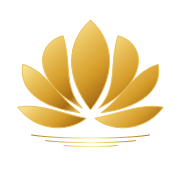
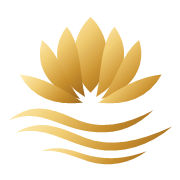
Redesign golden lotus with flowing water and refresh tour highlights

Changed region(s): [[0.0556, 0.1389, 0.9444, 0.9167], [0.4722, 0.0833, 0.5556, 0.1667]]

diff --git a/src/components/CityTourPage.tsx b/src/components/CityTourPage.tsx
@@ -48,10 +48,13 @@ export function CityTourPage(){
   <div className="tour-gallery">{photos.map((src,i)=><div key={src}><img src={src} alt={['Labuan Bajo harbour at sunset','Bukit Cinta rolling hills','Golo Mori coastline','Gua Rangko cave pool'][i]} loading={i===0?'eager':'lazy'}/>{i===0&&<span>See Bajo, your way ↗</span>}</div>)}</div>
   <div className="tour-layout"><div className="tour-content"><section className="tour-overview"><div><h2>One car. A whole day of possibilities.</h2><p>Explore Labuan Bajo on a city tour with a local driver/guide, an air-conditioned Toyota Rush, and room to make the day your own.</p></div><div className="tour-value"><Car size={22}/><div><strong>Toyota Rush</strong><span>Private vehicle · air conditioning · local driver/guide</span></div></div><div className="tour-includes"><div><h3>Included in your day</h3>{['Private Toyota Rush & local driver/guide','Fuel for the agreed local route','Hotel / Komodo Airport pickup & return','Bottled mineral water'].map(x=><p key={x}><Check size={16}/>{x}</p>)}</div><div><h3>Paid separately</h3>{['Attraction tickets & boat transfers','Lunch, dinner & personal purchases','Optional activities & voluntary tips','Personal travel insurance'].map(x=><p key={x}><span className="tour-dot">—</span>{x}</p>)}</div></div></section>
   <section className="tour-itinerary" id="tour-itinerary"><span className="tour-kicker">A LITTLE STRUCTURE. PLENTY OF FREEDOM.</span><h2>Your day could look like this.</h2><p className="tour-muted">A suggested route. We’ll agree the final stops and timing with you.</p><div className="tour-timeline">{stops.map(([at,title],i)=><button type="button" className="tour-stop-trigger" key={title} aria-haspopup="dialog" onClick={()=>setActiveStop(i)}><span className="tour-step">{String(i+1).padStart(2,'0')}</span><span><small>{at} WITA</small><strong>{title}</strong></span><ArrowUpRight size={18}/></button>)}</div></section>
-  <section id="tour-instagram" className="tour-instagram" aria-labelledby="tour-instagram-title"><div className="tour-instagram-heading"><Instagram size={19}/><h2 id="tour-instagram-title">City tour on Instagram</h2></div><p>Explore our city tour highlights on Instagram.</p><div className="tour-instagram-cards">{[
-    ['17985720191889255',photos[0],'City tour highlight 01'],
-    ['18126423679657807',photos[1],'City tour highlight 02'],
-  ].map(([id,cover,label])=><a key={id} href={`https://www.instagram.com/stories/highlights/${id}/`} target="_blank" rel="noopener noreferrer"><img src={cover} alt="" loading="lazy" width="96" height="96"/><span><strong>{label}</strong><small>View on Instagram</small></span><ArrowUpRight size={18}/></a>)}</div></section>
+  <section id="tour-instagram" className="tour-instagram" aria-labelledby="tour-instagram-title"><div className="tour-instagram-heading"><h2 id="tour-instagram-title">Explore our city tour</h2><Instagram size={20} aria-hidden="true"/></div><p>A little inspiration for your day in Bajo. See the highlights on Instagram.</p><div className="tour-instagram-cards">{[
+    ['17985720191889255',photos[0],'City tour highlight 01','01'],
+    ['18126423679657807',photos[1],'City tour highlight 02','02'],
+  ].map(([id,cover,label,number])=><a key={id} href={`https://www.instagram.com/stories/highlights/${id}/`} target="_blank" rel="noopener noreferrer" aria-label={label}>
+    <div className="tour-highlight-cover"><img src={cover} alt="" loading="lazy" width="480" height="270"/><span className="tour-highlight-badge"><Instagram size={18}/><span>Instagram highlights</span></span><span className="tour-highlight-number">{number}</span></div>
+    <div className="tour-highlight-action"><span>View highlight</span><span className="tour-highlight-arrow"><ArrowUpRight size={19}/></span></div>
+  </a>)}</div></section>
   <section className="tour-alternatives"><h2>Take a different turn.</h2><p className="tour-muted">Swap a stop for a coastal drive or a cave swim. Extra tickets and transfers are separate; routes depend on timing and access.</p><div>{[['Golo Mori','Coastal roads & open bays',photos[2]],['Gua Rangko','A boat ride to a blue cave pool',photos[3]]].map(([title,text,src])=><article key={title}><img src={src} alt={title} loading="lazy"/><h3>{title}</h3><p>{text}</p><a href="#tour-booking" onClick={()=>setNotes('Interested in '+title)}>Ask about this route ↗</a></article>)}</div></section>
   <section className="tour-car"><div><span className="tour-kicker">YOUR RIDE FOR THE DAY</span><h2>A little comfort goes a long way.</h2><p>Air conditioning, your own driver/guide, and no need to navigate. Let us know your group size and luggage so we can confirm the fit.</p><strong>Toyota Rush · up to 6 guests</strong></div><figure className="tour-interior"><img src="/assets/tours/toyota-rush-interior-enhanced.webp" alt="Toyota Rush three-row interior layout" loading="lazy"/><figcaption>Interior layout reference · actual trim may vary.</figcaption></figure></section>
   <section className="tour-faq"><h2>A few good questions.</h2>{faqs.map(([q,a])=><details key={q}><summary>{q}<ChevronDown size={16}/></summary><p>{a}</p></details>)}</section></div>

diff --git a/src/components/cityTour.css b/src/components/cityTour.css
@@ -71,4 +71,4 @@
 .tour-mobile-book {background:#fff;backdrop-filter:none;transform:translateZ(0);}
 .tour-intro h1 {white-space:normal;overflow-wrap:break-word;}
 
-.tour-instagram-heading{display:flex;align-items:center;gap:9px;color:#174c43}.tour-content .tour-instagram h2{font-size:21px;margin:0;letter-spacing:-.5px}.tour-instagram-cards{display:grid;grid-template-columns:1fr 1fr;gap:12px;margin-top:16px}.tour-instagram-cards>a{display:flex;align-items:center;gap:12px;padding:10px;border:1px solid #e0e6dc;border-radius:12px;min-width:0;background:#fff}.tour-instagram-cards img{width:64px;height:72px;object-fit:cover;border-radius:7px;flex-shrink:0}.tour-instagram-cards span{min-width:0;flex:1}.tour-instagram-cards strong{font-size:13px;line-height:1.5;display:block}.tour-instagram-cards small{display:block;font-size:11px;color:#607468;margin-top:5px}.tour-instagram-cards svg{flex-shrink:0}.tour-instagram-cards>a:hover{background:#f4f6ef}@media(max-width:650px){.tour-instagram-cards{grid-template-columns:1fr}.tour-instagram-cards img{width:58px;height:62px}.tour-content .tour-instagram h2{font-size:20px}}
+.tour-instagram-heading{display:flex;align-items:center;justify-content:space-between;gap:12px;color:#174c43}.tour-content .tour-instagram h2{font-size:25px;margin:0;letter-spacing:-.7px}.tour-instagram>p{margin-top:10px;max-width:500px}.tour-instagram-cards{display:grid;grid-template-columns:repeat(2,minmax(0,1fr));gap:14px;margin-top:20px}.tour-instagram-cards>a{display:block;min-width:0;overflow:hidden;border:1px solid #dfe5db;border-radius:14px;background:#fff;transition:border-color .2s,box-shadow .2s}.tour-highlight-cover{position:relative;overflow:hidden;aspect-ratio:16/9;background:#e9eee4}.tour-highlight-cover>img{display:block;width:100%;height:100%;object-fit:cover;transition:transform .5s ease}.tour-highlight-cover::after{content:'';position:absolute;inset:0;background:linear-gradient(transparent 40%,#102e294d);pointer-events:none}.tour-highlight-badge{position:absolute;z-index:1;top:12px;left:12px;display:flex;align-items:center;gap:6px;padding:6px 9px;background:#fffef5f2;color:#174c43;border-radius:20px;font-size:10px;font-weight:700}.tour-highlight-badge::before{content:'';position:absolute;inset:-4px;border:1px solid #f1cd82;border-radius:24px;animation:tour-highlight-invite 4s ease-out infinite;pointer-events:none}.tour-instagram-cards>a:nth-child(2) .tour-highlight-badge::before{animation-delay:2s}.tour-highlight-number{position:absolute;z-index:1;bottom:10px;right:12px;color:#fff;font-size:12px;font-weight:600;letter-spacing:1px}.tour-highlight-action{display:flex;align-items:center;justify-content:space-between;gap:8px;padding:12px 14px;color:#174c43;font-size:14px;font-weight:700}.tour-highlight-arrow{display:grid;place-items:center;width:32px;height:32px;border-radius:50%;background:#174c43;color:#fff;flex-shrink:0;transition:background .2s}.tour-highlight-arrow svg{transition:transform .2s}@keyframes tour-highlight-invite{0%,60%,100%{transform:scale(1);opacity:0}12%{opacity:.8}40%{transform:scale(1.12);opacity:0}}@media(hover:hover){.tour-instagram-cards>a:hover{border-color:#acbd9e;box-shadow:0 6px 20px #183c3510}.tour-instagram-cards>a:hover img{transform:scale(1.045)}.tour-instagram-cards>a:hover .tour-highlight-arrow svg{transform:translate(2px,-2px)}}@media(max-width:650px){.tour-content .tour-instagram h2{font-size:24px}.tour-instagram-cards{gap:10px;margin-top:16px}.tour-highlight-badge{left:8px;top:8px;padding:6px;}.tour-highlight-badge>span{display:none}.tour-highlight-action{padding:10px;font-size:12px;gap:5px;line-height:1.5}.tour-highlight-arrow{width:28px;height:28px}.tour-highlight-number{bottom:7px;right:9px;font-size:11px}}@media(prefers-reduced-motion:reduce){.tour-highlight-badge::before{animation:none}.tour-instagram-cards>a,.tour-highlight-cover>img,.tour-highlight-arrow,.tour-highlight-arrow svg{transition:none}}

diff --git a/index.html b/index.html
@@ -3,12 +3,12 @@
   <head>
     <meta charset="UTF-8" />
     <meta name="viewport" content="width=device-width, initial-scale=1.0" />
-    <link rel="icon" type="image/svg+xml" href="/assets/brand/lotus-flower.svg?v=lotus-ripples6" />
-    <link rel="icon" href="/favicon.ico?v=lotus-ripples6" sizes="any" />
-    <link rel="icon" type="image/png" sizes="32x32" href="/favicon-32x32.png?v=lotus-ripples6" />
-    <link rel="icon" type="image/png" sizes="16x16" href="/favicon-16x16.png?v=lotus-ripples6" />
-    <link rel="apple-touch-icon" sizes="180x180" href="/apple-touch-icon.png?v=lotus-ripples6" />
-    <link rel="manifest" href="/site.webmanifest?v=lotus-ripples6" />
+    <link rel="icon" type="image/svg+xml" href="/assets/brand/lotus-flower.svg?v=lotus-flow7" />
+    <link rel="icon" href="/favicon.ico?v=lotus-flow7" sizes="any" />
+    <link rel="icon" type="image/png" sizes="32x32" href="/favicon-32x32.png?v=lotus-flow7" />
+    <link rel="icon" type="image/png" sizes="16x16" href="/favicon-16x16.png?v=lotus-flow7" />
+    <link rel="apple-touch-icon" sizes="180x180" href="/apple-touch-icon.png?v=lotus-flow7" />
+    <link rel="manifest" href="/site.webmanifest?v=lotus-flow7" />
     <meta name="theme-color" content="#174c43" />
     <title>Lotus Rental 22 — Premium Scooter Rental Labuan Bajo</title>
     <meta name="description" content="Explore Labuan Bajo with premium scooter rentals from Lotus Rental 22. Airport & hotel delivery from Rp 20.000 per scooter, zero security deposit, well-maintained bikes, 2 helmets & phone holder included." />

diff --git a/src/i18n/tourTranslations.ts b/src/i18n/tourTranslations.ts
@@ -179,3 +179,7 @@ tourTranslations["Explore our city tour highlights on Instagram."]=["Lihat highl
 tourTranslations["City tour highlight 01"]=["Highlight city tour 01", "城市游精选01", "Destacado city tour 01", "Highlight city tour 01"];
 tourTranslations["City tour highlight 02"]=["Highlight city tour 02", "城市游精选02", "Destacado city tour 02", "Highlight city tour 02"];
 tourTranslations["View on Instagram"]=["Lihat di Instagram", "在Instagram查看", "Ver en Instagram", "Vedi su Instagram"];
+tourTranslations["Explore our city tour"]=["Jelajahi city tour kami", "探索我们的城市游", "Explora nuestro city tour", "Scopri il nostro city tour"];
+tourTranslations["A little inspiration for your day in Bajo. See the highlights on Instagram."]=["Inspirasi untuk harimu di Bajo. Lihat highlight-nya di Instagram.", "为您的巴焦之旅寻找灵感，在Instagram查看精选。", "Inspiración para tu día en Bajo. Mira los destacados en Instagram.", "Ispirazione per la tua giornata a Bajo. Guarda gli highlight su Instagram."];
+tourTranslations["Instagram highlights"]=["Highlight Instagram", "Instagram精选", "Destacados de Instagram", "Highlight di Instagram"];
+tourTranslations["View highlight"]=["Lihat highlight", "查看精选", "Ver destacado", "Vedi highlight"];

diff --git a/src/components/LotusLogoCrest.tsx b/src/components/LotusLogoCrest.tsx
@@ -6,7 +6,7 @@ interface LotusLogoCrestProps {
 }
 export const LotusLogoCrest = ({className = '', size = 'md', showTextLabel = true}: LotusLogoCrestProps) => (
   <span className={`lotus-logo lotus-logo--${size} ${className}`}>
-    <img src="/assets/brand/lotus-flower.svg?v=lotus-ripples6" alt="Lotus Rental 22 — Labuan Bajo" width="256" height="256" />
+    <img src="/assets/brand/lotus-flower.svg?v=lotus-flow7" alt="Lotus Rental 22 — Labuan Bajo" width="256" height="256" />
     {showTextLabel && <span className="lotus-logo-label">LOTUS RENTAL 22<small>LABUAN BAJO</small></span>}
   </span>
 );

diff --git a/docs/LOTUS_FLOWER.md b/docs/LOTUS_FLOWER.md
@@ -2,7 +2,7 @@
 
 Final assets: `public/assets/brand/lotus-flower.svg`, `public/icon-512.png`, and favicon/app-icon sizes in `public/`.
 
-Design: seven shaded gold lotus petals with three golden water ripples, symmetrical and transparent, without crest, scooter, circle or lettering. The website keeps the existing brand name alongside the mark.
+Design: seven layered gold lotus petals with three flowing, tapered water ribbons on a transparent background, without crest, scooter, circle or lettering. The website keeps the existing brand name alongside the mark.
 
 References: the two owner-supplied lotus logo photographs from 18 November 2026.
 
